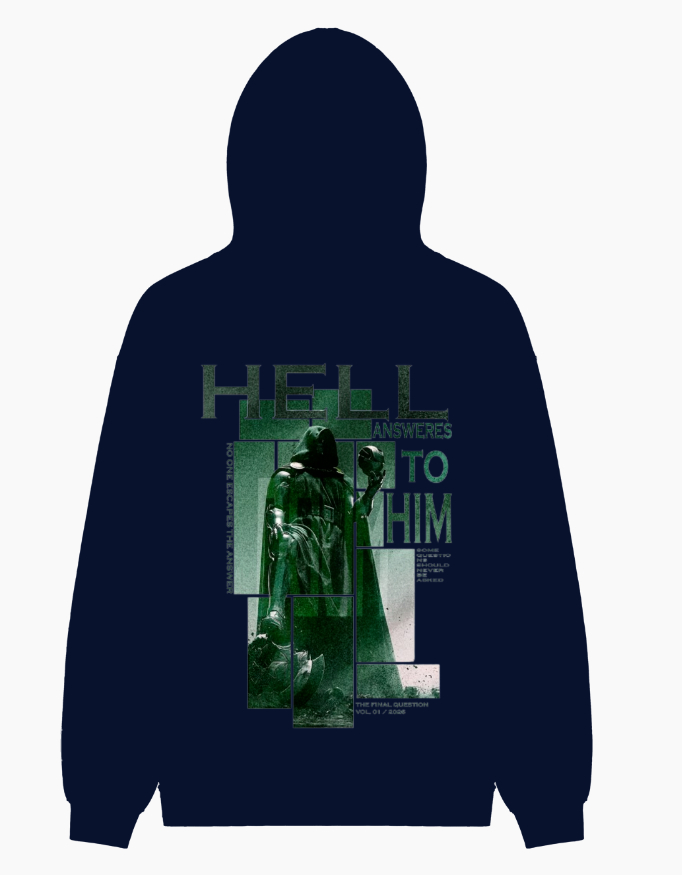
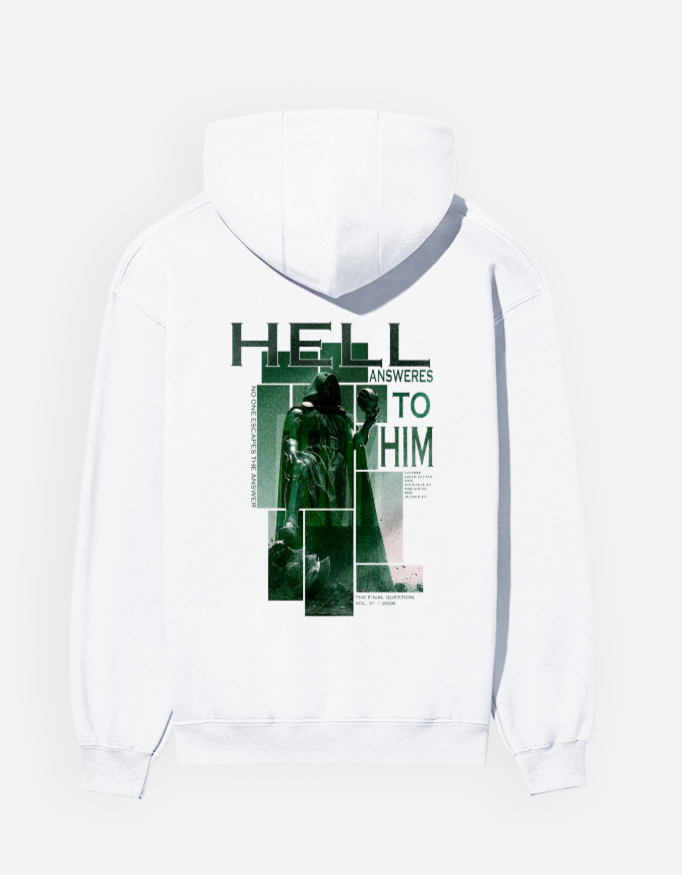
Add Doomsday2 colorways with back image first and front image second

diff --git a/products.js b/products.js
@@ -104,11 +104,22 @@ const PRODUCTS = [
     category: 'hoodie',
     sku: 'TRV-DOOM2-01',
     tag: 'Drop 01 // Archival Heavywear',
-    desc: 'Heavyweight oversized streetwear hoodie in White, Black, and Navy Blue with front and back archival graphics.',
+    desc: 'Heavyweight oversized streetwear hoodie featuring Doomsday back artwork first and front graphic second across 14 colorways.',
     colors: [
+      { name: 'White', hex: '#f8fafc', images: ['assets/DOOMSDAY2/Back_2_c_1.jpg', 'assets/DOOMSDAY2/Front_1_c_1.jpg'] },
       { name: 'Black', hex: '#18181b', images: ['assets/DOOMSDAY2/Back_2_c_2.jpg', 'assets/DOOMSDAY2/Front_1_c_2.jpg'] },
-      { name: 'White', hex: '#f8fafc', images: ['assets/DOOMSDAY2/Front_1_c_1.jpg', 'assets/DOOMSDAY2/Front_1_c_1.jpg'] },
-      { name: 'Navy Blue', hex: '#1e293b', images: ['assets/DOOMSDAY2/Back_2_c_3.jpg', 'assets/DOOMSDAY2/Front_1_c_3.jpg'] }
+      { name: 'Navy Blue', hex: '#1e293b', images: ['assets/DOOMSDAY2/Back_2_c_3.jpg', 'assets/DOOMSDAY2/Front_1_c_3.jpg'] },
+      { name: 'Heather Grey', hex: '#9ca3af', images: ['assets/DOOMSDAY2/Back_2_c_4.jpg', 'assets/DOOMSDAY2/Front_1_c_4.jpg'] },
+      { name: 'Forest Green', hex: '#14532d', images: ['assets/DOOMSDAY2/Back_2_c_8.jpg', 'assets/DOOMSDAY2/Front_1_c_8.jpg'] },
+      { name: 'Cobalt Blue', hex: '#1d4ed8', images: ['assets/DOOMSDAY2/Back_2_c_9.jpg', 'assets/DOOMSDAY2/Front_1_c_9.jpg'] },
+      { name: 'Crimson Red', hex: '#b91c1c', images: ['assets/DOOMSDAY2/Back_2_c_10.jpg', 'assets/DOOMSDAY2/Front_1_c_10.jpg'] },
+      { name: 'Olive Drab', hex: '#4d5d3b', images: ['assets/DOOMSDAY2/Back_2_c_41.jpg', 'assets/DOOMSDAY2/Front_1_c_41.jpg'] },
+      { name: 'Mustard Gold', hex: '#ca8a04', images: ['assets/DOOMSDAY2/Back_2_c_43.jpg', 'assets/DOOMSDAY2/Front_1_c_43.jpg'] },
+      { name: 'Light Pink', hex: '#f9a8d4', images: ['assets/DOOMSDAY2/Back_2_c_45.jpg', 'assets/DOOMSDAY2/Front_1_c_45.jpg'] },
+      { name: 'Lavender Lilac', hex: '#c4b5fd', images: ['assets/DOOMSDAY2/Back_2_c_49.jpg', 'assets/DOOMSDAY2/Front_1_c_49.jpg'] },
+      { name: 'Coral Rose', hex: '#e11d48', images: ['assets/DOOMSDAY2/Back_2_c_52.jpg', 'assets/DOOMSDAY2/Front_1_c_52.jpg'] },
+      { name: 'Mint Green', hex: '#86efac', images: ['assets/DOOMSDAY2/Back_2_c_53.jpg', 'assets/DOOMSDAY2/Front_1_c_53.jpg'] },
+      { name: 'Sky Blue', hex: '#93c5fd', images: ['assets/DOOMSDAY2/Back_2_c_54.jpg', 'assets/DOOMSDAY2/Front_1_c_54.jpg'] }
     ]
   },
   {
